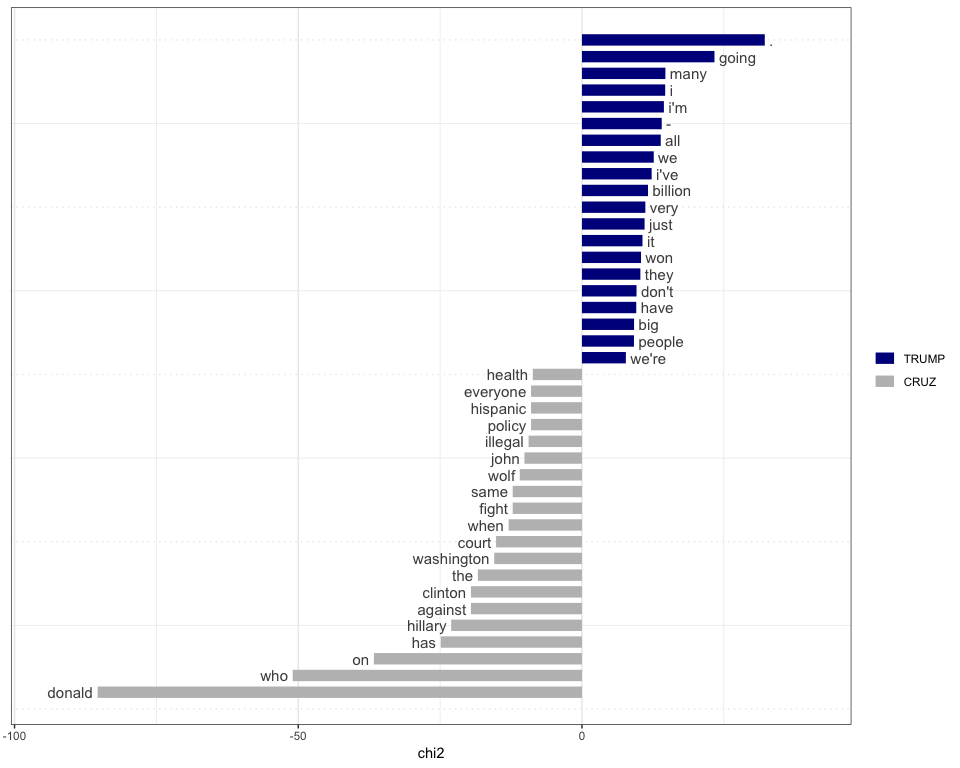
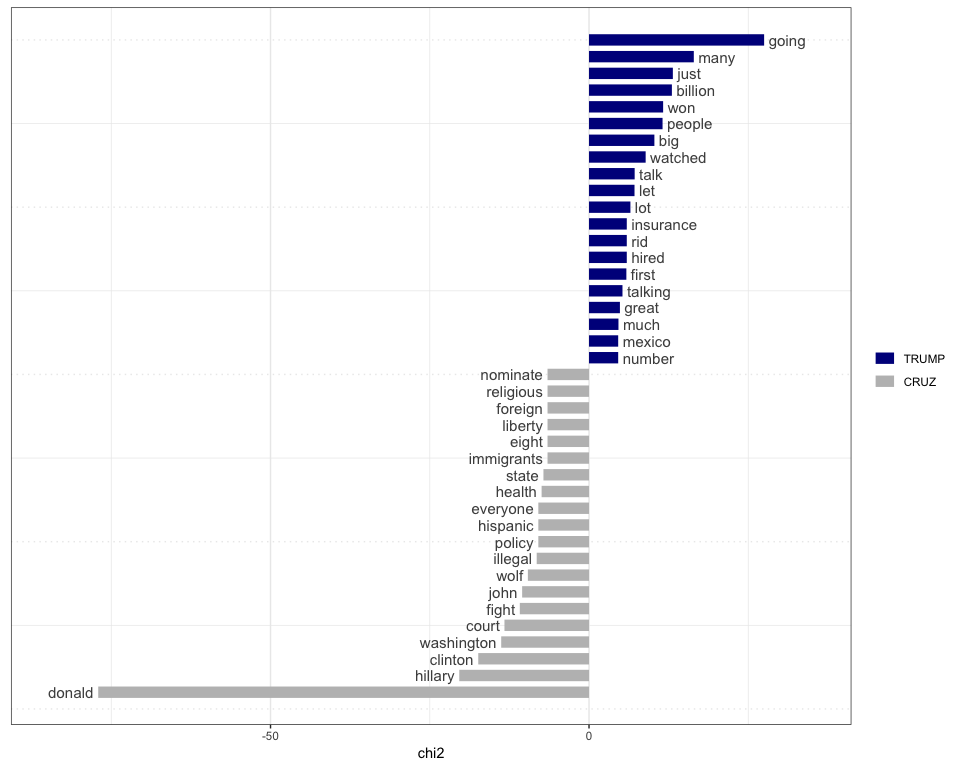
Improve keyness plot by removing stopwords and punctuation

diff --git a/content/post/text-analysis-of-the-10th-republican-presidential-candidate-debate-using-r-and-the-quanteda-package.md b/content/post/text-analysis-of-the-10th-republican-presidential-candidate-debate-using-r-and-the-quanteda-package.md
@@ -110,7 +110,7 @@ of information about the corpus we have just created.
     ##  presdebate-2016-02-25  3051  29978      2002
     ## 
     ## Source: http://www.presidency.ucsb.edu/ws/index.php?pid=111634
-    ## Created: Tue Feb 12 12:59:19 2019
+    ## Created: Tue Feb 12 13:04:18 2019
     ## Notes: 10th Republican candidate debate, Houston TX 2016-02-25
 
 Our goal in order to analyze this by speaker, is to redefine the corpus
@@ -149,7 +149,7 @@ extracting the regular expression. match in the text to `pattern`
     ##  presdebate-2016-02-25.10    98    164        10          \nKASICH: 
     ## 
     ## Source: http://www.presidency.ucsb.edu/ws/index.php?pid=111634
-    ## Created: Tue Feb 12 12:59:19 2019
+    ## Created: Tue Feb 12 13:04:19 2019
     ## Notes: corpus_segment.corpus(corp, pattern = "\\s*[[:upper:]]+:\\s+", valuetype = "regex", case_insensitive = FALSE)
 
 Let’s rename `pattern` to something more descriptive, such as `speaker`.
@@ -291,7 +291,7 @@ documents is just five (one for each candidate).
     ##    ... grouping texts
     ##    ... created a 5 x 2,507 sparse dfm
     ##    ... complete. 
-    ## Elapsed time: 0.084 seconds.
+    ## Elapsed time: 0.066 seconds.
 
 Because the texts are of different lengths, we want to normalize them
 (by converting the feature counts into vectors of relative frequencies
@@ -452,9 +452,13 @@ classes.
 
 For instance, we can easily determine which words were used mnost
 differentially by Trump versus Cruz using some “keyness” statistics and
-plots.
+plots. Here we recreate the dfm, remove punctuation and English
+stopwords, group by speaker, subset by just Trump and Cruz, compute
+keyness statistics, and then plot the keyness statistics. We can do all
+of this in one set of piped operations.
 
-    dfm(corpcand) %>%
+    dfm(corpcand, remove_punct = TRUE) %>%
+        dfm_remove(stopwords("english")) %>%
         dfm_group(groups = "speaker") %>%
         dfm_subset(speaker %in% c("TRUMP", "CRUZ")) %>%
         textstat_keyness(target = "TRUMP") %>%
